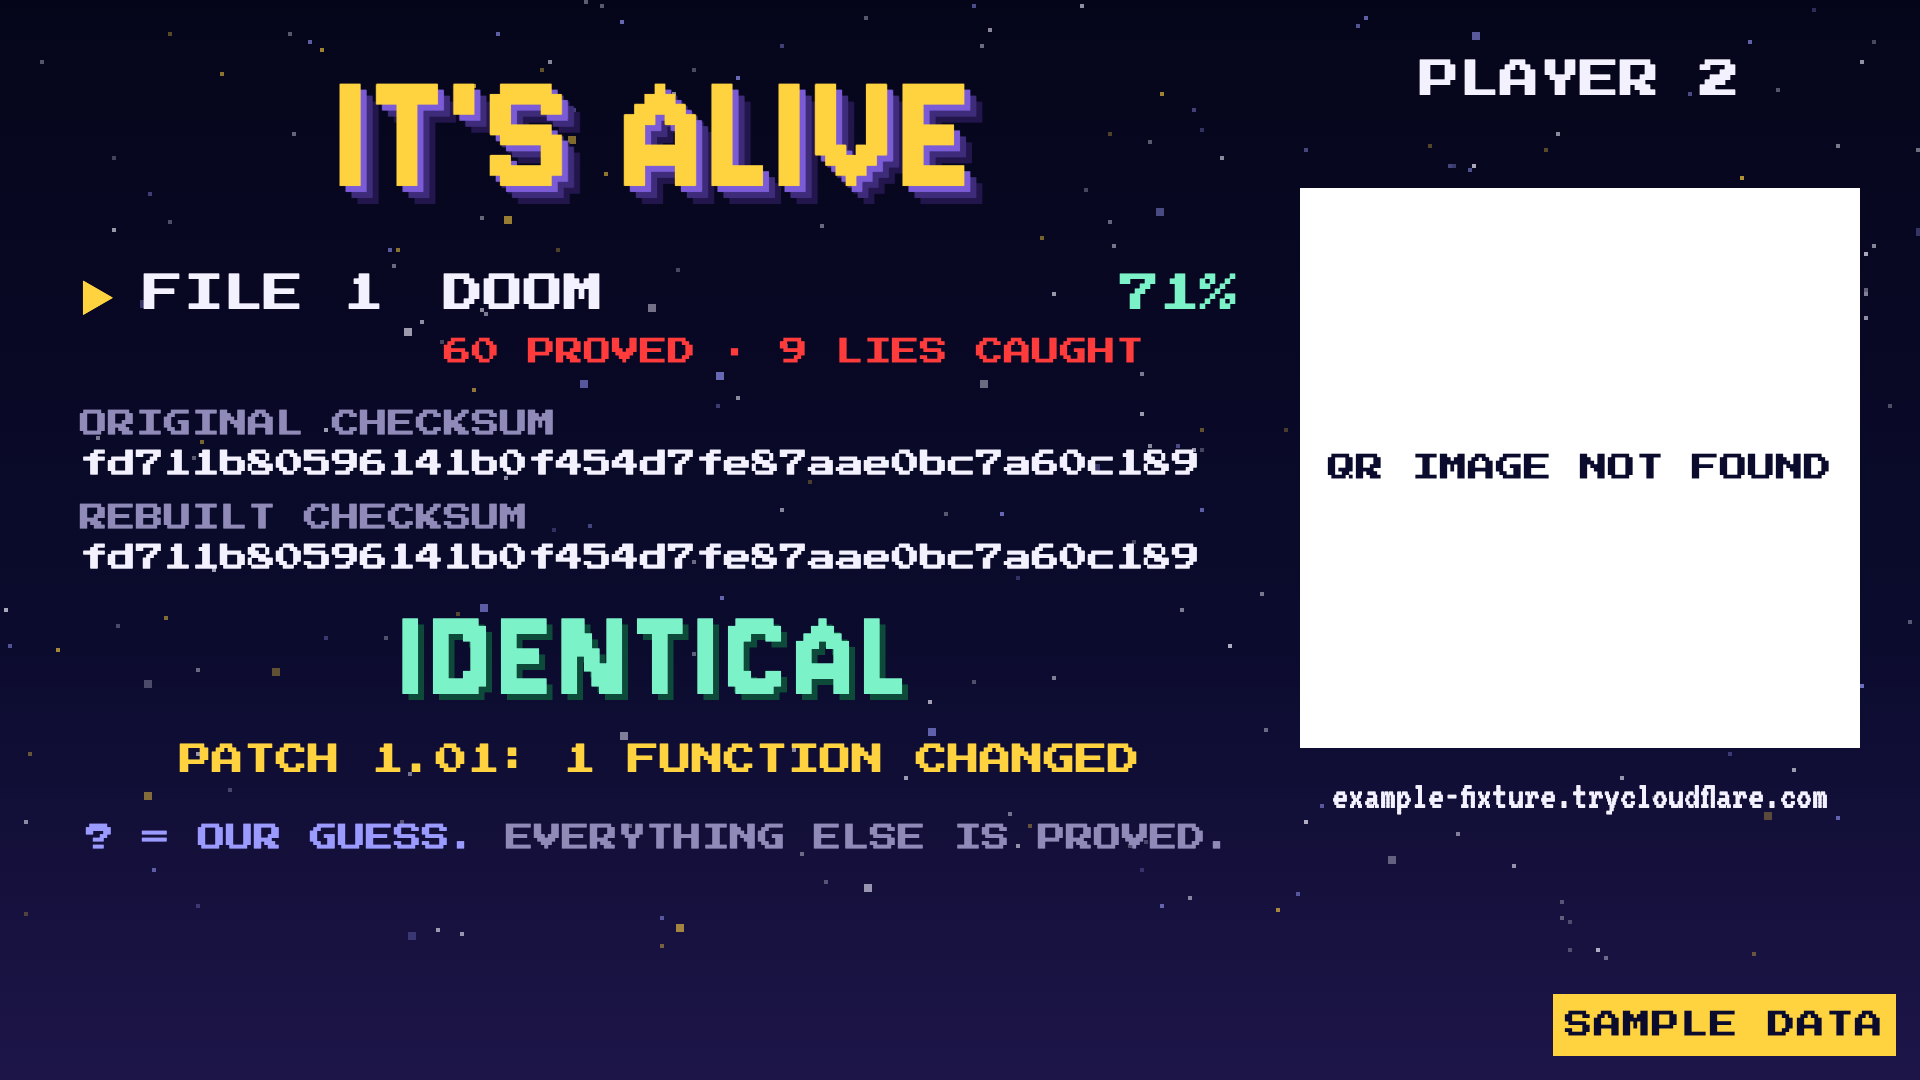
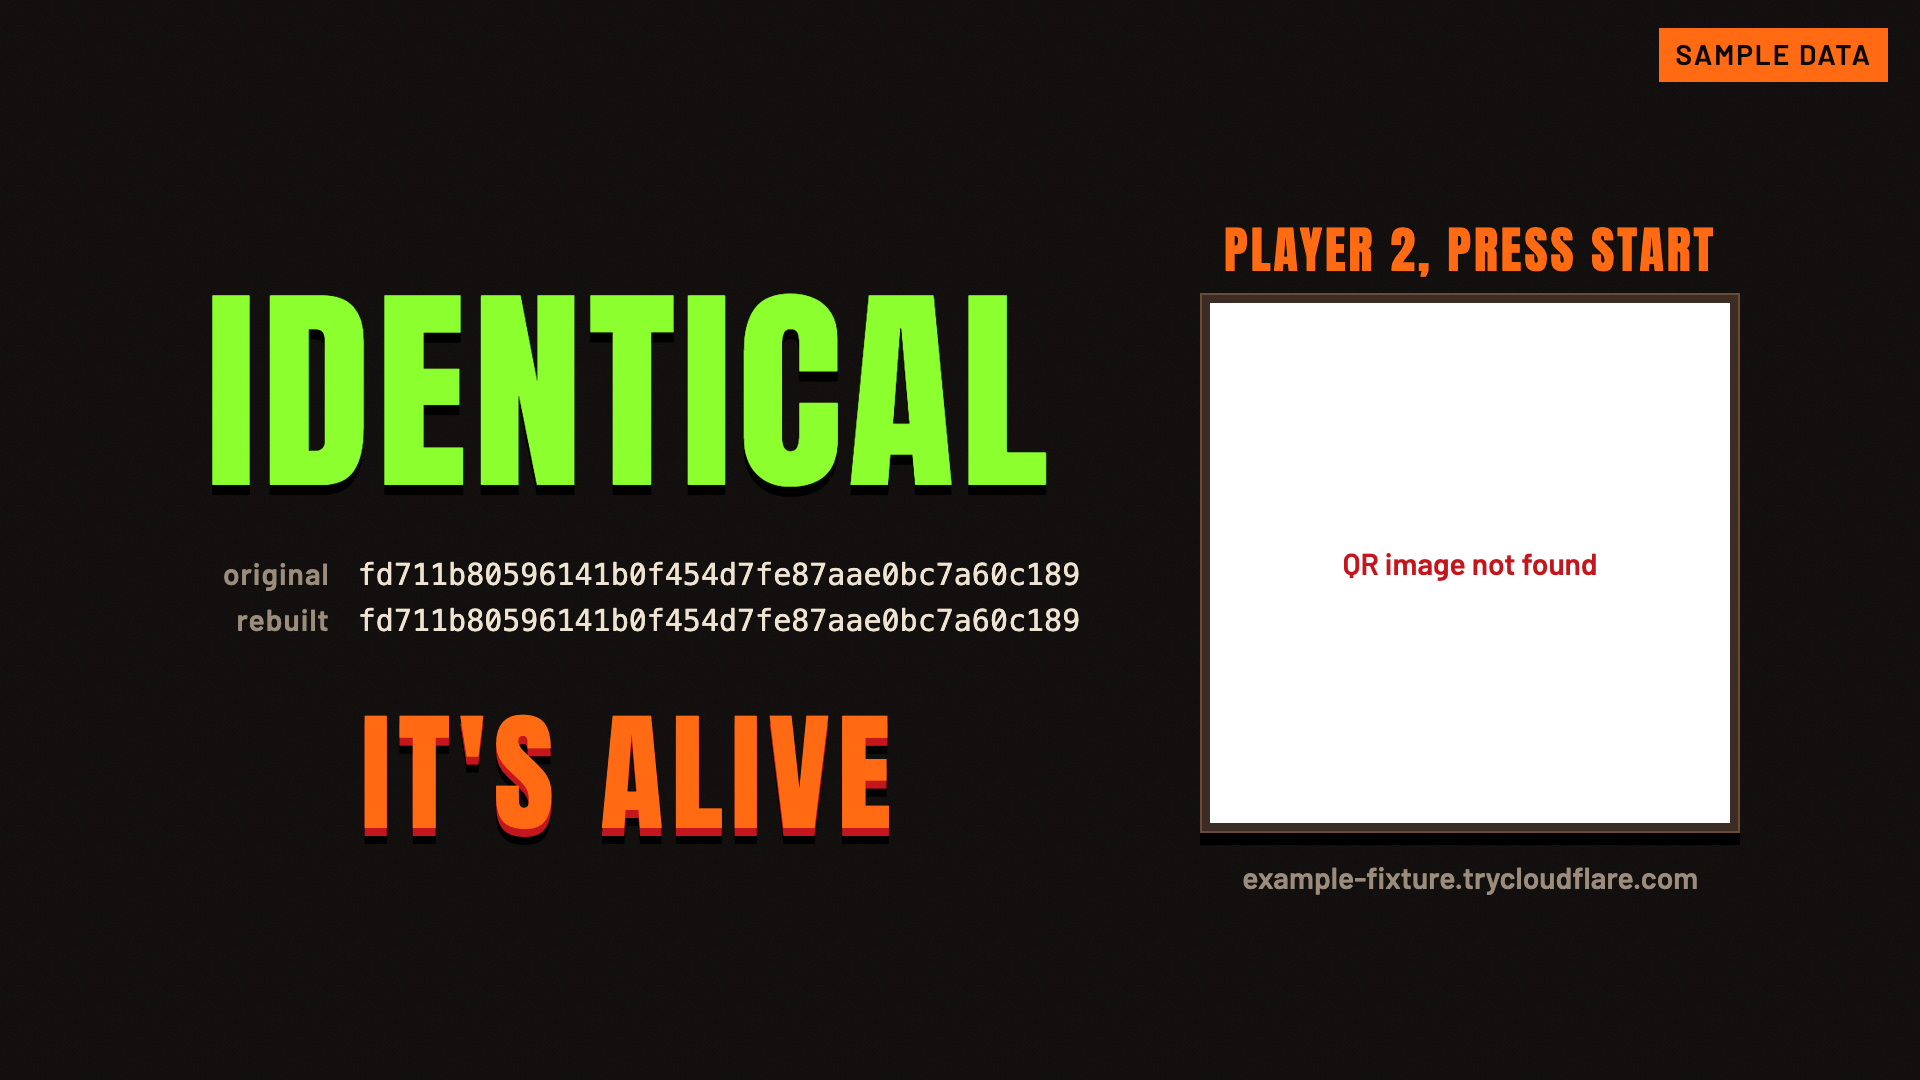
stage: Alive screen: IDENTICAL, the two checksums, IT'S ALIVE, the QR
IDENTICAL in proved green with both SHA-1s small underneath and IT'S ALIVE,
only when build.rom says identical and the hashes agree (DIFFERENT in red
otherwise). Without a rebuild it says NOT REBUILT YET with the original
checksum and the proved count. The QR appears only after phone.published.
The credits page keeps every line, in the new look.

diff --git a/stage/src/scenes/ending.ts b/stage/src/scenes/ending.ts
@@ -1,12 +1,12 @@
-// Scene 4: Ending. The title screen, cleared: true % recovered, both checksums, IDENTICAL only when the
-// lab says so and the hashes agree, patch notes on patch.verified, the QR on phone.published.
+// Scene 4: Alive (id "ending"). One idea: the rebuilt game is byte-for-byte the original.
+// IDENTICAL only when the lab's build.rom says so and the hashes agree; DIFFERENT in red otherwise;
+// before any build, an honest NOT REBUILT YET with the proved count. The QR shows on phone.published.
 // Space flips to the Built today / Not ours card, which the demo and the video end on.
+import './ending.css';
 import type { Ctx, Scene } from '../types.ts';
 import { h, esc } from '../types.ts';
 import type { Effect } from '../state.ts';
-
-import { drawStars } from './title.ts';
-import { setText, gameName, gamePct } from './common.ts';
+import { setText, gameTotal } from './common.ts';
 
 export class EndingScene implements Scene {
   id = 'ending' as const;
@@ -19,23 +19,18 @@ export class EndingScene implements Scene {
     this.base = base;
     this.page = new URLSearchParams(location.search).get('page') === 'credits' ? 'credits' : 'main';
     this.el.innerHTML = `
-      <canvas class="stars"></canvas>
-      <div class="main">
-        <div class="col">
-          <div class="end-logo" data-k="logo">FRANKENSTEIN</div>
-          <div class="file"><span class="cur">▶</span><span>FILE 1</span><span data-k="game">DOOM</span><span class="pct" data-k="pct">--%</span></div>
-          <div class="lies" data-k="lies"></div>
-          <div class="sums">
-            <div class="sl">ORIGINAL CHECKSUM</div><div class="sv" data-k="orig">--</div>
-            <div class="sl">REBUILT CHECKSUM</div><div class="sv" data-k="rebuilt">WAITING FOR THE REBUILD</div>
+      <div class="en-main">
+        <div class="en-col">
+          <div class="en-verdict" data-k="verdict">NOT REBUILT YET</div>
+          <div class="en-sums">
+            <div class="en-sum"><span class="l">original</span><span class="v" data-k="orig">--</span></div>
+            <div class="en-sum rb"><span class="l">rebuilt</span><span class="v" data-k="rebuilt">--</span></div>
           </div>
-          <div class="verdict" data-k="verdict"></div>
-          <div class="patch" data-k="patch"></div>
-          <div class="key"><em>? = OUR GUESS.</em> EVERYTHING ELSE IS PROVED.</div>
+          <div class="en-foot" data-k="foot"></div>
         </div>
-        <div class="qr" data-k="qr"></div>
+        <div class="en-qr" data-k="qr"></div>
       </div>
-      <div class="credits">
+      <div class="en-credits">
         <h1>BUILT TODAY <span>/</span> NOT OURS</h1>
         <div class="cc">
           <div><h2>BUILT TODAY</h2><p class="when">Nov 7, 2026, after 10:45</p><ul>
@@ -51,7 +46,6 @@ export class EndingScene implements Scene {
             <li>Prior work: the planning kit in docs/ and the event clock</li></ul></div>
         </div>
       </div>`;
-    drawStars(this.el.querySelector('canvas')!, false);
     this.el.classList.toggle('show-credits', this.page === 'credits');
   }
 
@@ -76,23 +70,22 @@ export class EndingScene implements Scene {
 
   render(ctx: Ctx) {
     const s = ctx.state;
-    setText(this.el, 'pct', `${gamePct(ctx)}%`);
-    setText(this.el, 'game', gameName(s));
-    setText(this.el, 'lies', `${s.matched.length} PROVED · ${s.falseClaims.length} LIES CAUGHT`);
-    const orig = ctx.side.romSha1;
+    const orig: string | null = ctx.side.romSha1;
     const b = s.build;
-    setText(this.el, 'orig', orig ?? 'NOT IN THE MANIFEST');
-    setText(this.el, 'rebuilt', b?.rom_sha1 ?? 'NOT REBUILT YET');
     const identical = !!b && b.identical === true && (!orig || orig === b.rom_sha1);
     const differ = !!b && (b.identical === false || (!!orig && orig !== b.rom_sha1));
-    const v = this.el.querySelector('[data-k="verdict"]') as HTMLElement;
-    const vt = identical ? 'IDENTICAL' : differ ? 'DIFFERENT' : '';
-    if (v.textContent !== vt) { v.textContent = vt; v.className = `verdict ${identical ? 'ok' : 'bad'}`; }
-    setText(this.el, 'logo', identical ? "IT'S ALIVE" : 'FRANKENSTEIN');
-    const pt = s.patch;
-    const n = Array.isArray(pt?.changed_functions) ? pt.changed_functions.length : 0;
-    setText(this.el, 'patch', pt ? `PATCH 1.01: ${n} FUNCTION${n === 1 ? '' : 'S'} CHANGED`
-      : b ? '' : 'THE REBUILD RUNS WHEN THE CREW STOPS');
+    const state = identical ? 'ok' : differ ? 'bad' : 'none';
+    if (this.el.dataset.state !== state) this.el.dataset.state = state;
+
+    setText(this.el, 'verdict', identical ? 'IDENTICAL' : differ ? 'DIFFERENT' : 'NOT REBUILT YET');
+    setText(this.el, 'orig', orig ?? 'not in the manifest');
+    setText(this.el, 'rebuilt', b ? String(b.rom_sha1 ?? 'no checksum reported') : '');
+
+    const total = gameTotal(ctx);
+    const proved = `<b>${s.matched.length}</b> of ${total || '?'} pieces proved`;
+    const foot = identical ? "IT'S ALIVE" : proved;
+    const f = this.el.querySelector('[data-k="foot"]') as HTMLElement;
+    if (f.innerHTML !== foot) f.innerHTML = foot;
     this.renderQr(ctx);
   }
 
@@ -103,11 +96,12 @@ export class EndingScene implements Scene {
     this.qrKey = key;
     const el = this.el.querySelector('[data-k="qr"]') as HTMLElement;
     this.el.classList.toggle('has-qr', !!ph);
+    el.classList.remove('loaded');
     if (!ph) { el.innerHTML = ''; return; }
     const src = ph.qr_png ? `${this.base}/file?path=${encodeURIComponent(ph.qr_png)}` : '';
     const url = String(ph.url ?? '').replace(/^https?:\/\//, '').replace(/\/$/, '');
-    el.innerHTML = `<div class="p2">PLAYER 2</div><div class="ps">PRESS START</div>
-      <div class="img">${src ? `<img alt="QR code for ${esc(url)}" src="${esc(src)}">` : ''}<span>QR IMAGE NOT FOUND</span></div>
+    el.innerHTML = `<div class="p2">Player 2, press start</div>
+      <div class="img">${src ? `<img alt="QR code for ${esc(url)}" src="${esc(src)}">` : ''}<span>QR image not found</span></div>
       <div class="url">${esc(url)}</div>`;
     const img = el.querySelector('img');
     if (img) img.onload = () => el.classList.add('loaded');

diff --git a/stage/src/scenes/ending.css b/stage/src/scenes/ending.css
@@ -1,0 +1,65 @@
+/* Alive (ending): IDENTICAL, the two checksums small underneath, IT'S ALIVE. QR on the right when the phone page is up. */
+
+.ending .en-main {
+  position: absolute; inset: 0;
+  display: flex; align-items: center; justify-content: center; gap: 120px;
+  padding: 140px 100px 100px;
+}
+.ending .en-col { display: flex; flex-direction: column; align-items: center; text-align: center; min-width: 0; }
+
+.ending .en-verdict {
+  font: 400 260px/1 var(--display); letter-spacing: 6px; color: var(--ash); white-space: nowrap;
+  text-shadow: 0 10px 0 #000;
+}
+.ending[data-state='ok'] .en-verdict { color: var(--toxic); }
+.ending[data-state='bad'] .en-verdict { color: var(--blood); }
+.ending[data-state='none'] .en-verdict { font-size: 190px; }
+
+.ending .en-sums { margin-top: 56px; display: grid; gap: 14px; }
+.ending .en-sum { display: flex; align-items: baseline; gap: 28px; white-space: nowrap; }
+.ending .en-sum .l { width: 150px; text-align: right; font: 600 30px/1 var(--text); color: var(--ash); letter-spacing: 1px; }
+.ending .en-sum .v { font: 500 30px/1 var(--mono); color: var(--bone); letter-spacing: 0; }
+.ending[data-state='none'] .en-sum.rb { display: none; }
+.ending[data-state='bad'] .en-sum.rb .v { color: var(--blood); }
+
+.ending .en-foot { margin-top: 72px; font: 600 48px/1.1 var(--text); color: var(--ash); }
+.ending .en-foot b { color: var(--toxic); font-weight: 700; }
+.ending[data-state='ok'] .en-foot {
+  font: 400 150px/1 var(--display); letter-spacing: 8px; color: var(--fire);
+  text-shadow: 0 8px 0 var(--blood), 0 16px 0 #000;
+}
+
+/* QR: a white square, only when phone.published exists */
+.ending .en-qr { display: none; flex: none; width: 540px; text-align: center; }
+.ending.has-qr .en-qr { display: block; }
+.ending .en-qr .p2 { font: 400 50px/1 var(--display); letter-spacing: 3px; white-space: nowrap; color: var(--fire); text-transform: uppercase; margin-bottom: 28px; }
+.ending .en-qr .img {
+  position: relative; width: 520px; height: 520px; margin: 0 auto; background: #fff;
+  box-shadow: 0 0 0 8px var(--metal), 0 0 0 10px var(--metal-hi), 0 12px 0 10px #000;
+  display: grid; place-items: center;
+}
+.ending .en-qr img { position: absolute; inset: 24px; width: 472px; height: 472px; image-rendering: pixelated; visibility: hidden; }
+.ending .en-qr.loaded img { visibility: visible; }
+.ending .en-qr .img span { font: 600 30px/1 var(--text); color: var(--blood); }
+.ending .en-qr.loaded .img span { display: none; }
+.ending .en-qr .url { margin-top: 36px; font: 600 30px/1.2 var(--text); color: var(--ash); overflow-wrap: anywhere; }
+.ending.has-qr .en-verdict { font-size: 220px; }
+.ending.has-qr[data-state='none'] .en-verdict { font-size: 150px; }
+.ending.has-qr[data-state='ok'] .en-foot { font-size: 130px; }
+
+/* credits: Built today / Not ours, same words, new look */
+.ending .en-credits { display: none; position: absolute; inset: 0; padding: 150px 120px 80px; }
+.ending.show-credits .en-main { display: none; }
+.ending.show-credits .en-credits { display: block; }
+.ending .en-credits h1 { font: 400 130px/1 var(--display); letter-spacing: 4px; color: var(--bone); text-shadow: 0 8px 0 #000; }
+.ending .en-credits h1 span { color: var(--rust); }
+.ending .en-credits .cc { margin-top: 72px; display: grid; grid-template-columns: 1fr 1fr; gap: 100px; }
+.ending .en-credits h2 { font: 400 64px/1 var(--display); letter-spacing: 3px; color: var(--fire); padding-bottom: 18px; border-bottom: 6px solid var(--rust); }
+.ending .en-credits h2.no { color: var(--ash); }
+.ending .en-credits .when { margin-top: 20px; font: 600 30px/1.2 var(--text); color: var(--ash); }
+.ending .en-credits ul { list-style: none; margin-top: 24px; display: grid; gap: 20px; }
+.ending .en-credits li { position: relative; padding-left: 32px; font: 400 32px/1.25 var(--text); color: var(--bone); }
+.ending .en-credits li::before { content: ''; position: absolute; left: 0; top: 14px; width: 12px; height: 12px; background: var(--rust); }
+
+/* keep the corner mark clear of the content */
+.stage[data-scene='ending'] #mark, .stage[data-scene='title'] #mark { max-width: 560px; }
